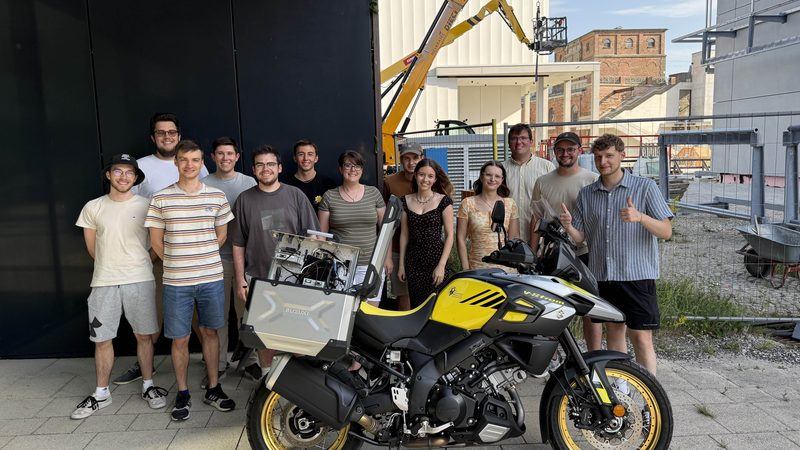
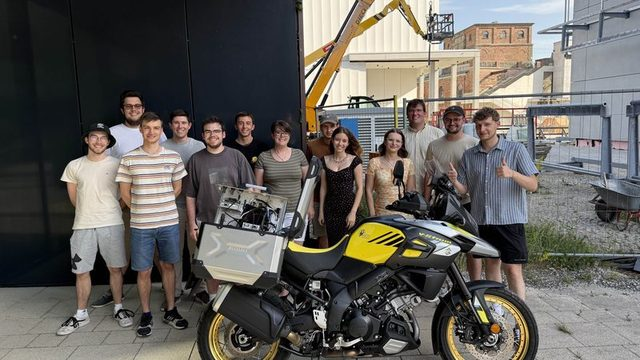
updates

diff --git a/README.md b/README.md
@@ -133,7 +133,7 @@ The cube:evk and the cube:its stack are used in V2X research and product project
       <b>Bike safety in mountain environments</b><br/>University of Trento
     </td>
     <td width="50%" align="center">
-      <a href="https://www.nfiniity.com/blog/TUM-Enhancing-Urban-Mobility.html"><img src="images/articles/mobile-rsu.jpg" width="100%" alt="Enhancing urban mobility"/></a><br/>
+      <a href="https://www.nfiniity.com/blog/TUM-Enhancing-Urban-Mobility.html"><img src="images/articles/rickshaw.jpg" width="100%" alt="Enhancing urban mobility"/></a><br/>
       <b>Enhancing urban mobility</b><br/>TU München
     </td>
   </tr>
@@ -143,8 +143,8 @@ The cube:evk and the cube:its stack are used in V2X research and product project
       <b>Group riding enhanced by C-ITS</b><br/>Technische Hochschule Ingolstadt
     </td>
     <td width="50%" align="center">
-      <a href="https://www.nfiniity.com/news/Canyon-V2X-Bike-Integration-Cube-Nano.html"><img src="images/articles/canyon-bicycle-v2x.jpg" width="100%" alt="V2X for urban e-bikes"/></a><br/>
-      <b>V2X for urban e-bikes</b><br/>Canyon Bicycles
+      <a href="https://www.nfiniity.com/insights.html"><img src="images/articles/Lamborghini-Ducati-nfiniity.jpg" width="100%" alt="V2X for cars and motorcycles"/></a><br/>
+      <b>V2X for cars and motorcycles</b><br/>Lamborghini and Ducati
     </td>
   </tr>
 </table>
